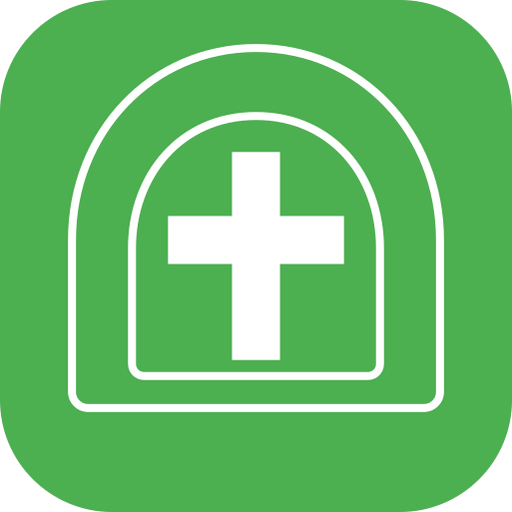
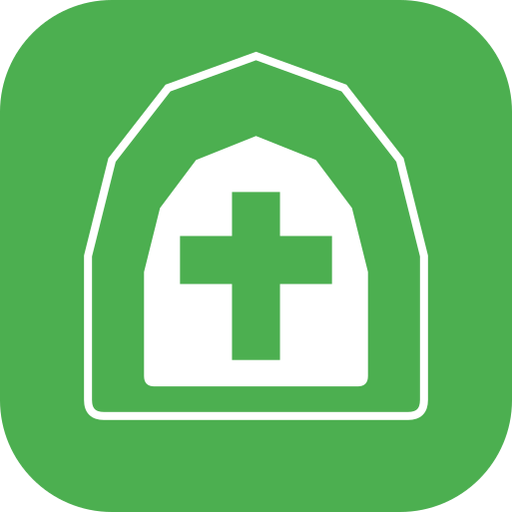
로고 아치를 각진 다각형 실루엣으로, 내부는 흰 문+초록 십자가 컷아웃으로 재구성
바깥 아치는 매끈한 곡선 대신 다각형(7각형 느낌) 윤곽선으로,
안쪽은 흰색으로 꽉 채운 문 모양 위에 배경과 같은 초록색
십자가를 겹쳐 파여있는 것처럼 보이도록 조정.

Changed region(s): [[0.125, 0.0625, 0.875, 0.8438]]

diff --git a/app/components/Header.tsx b/app/components/Header.tsx
@@ -25,21 +25,18 @@ export default function Header() {
       <div style={s.logo}>
         <svg viewBox="0 0 64 64" width={40} height={40}>
           <path
-            d="M32 6C19 6 9 16.5 9 30v19a2 2 0 0 0 2 2h42a2 2 0 0 0 2-2V30C55 16.5 45 6 32 6Z"
+            d="M11 50V32L14 20L21 11L32 7L43 11L50 20L53 32V50Q53 52 51 52H13Q11 52 11 50Z"
             fill="none"
             stroke="white"
-            strokeWidth="4"
+            strokeWidth="3.6"
             strokeLinejoin="round"
           />
           <path
-            d="M32 14.5C22.5 14.5 16.5 22 16.5 31v14.5A1.5 1.5 0 0 0 18 47h28a1.5 1.5 0 0 0 1.5-1.5V31C47.5 22 41.5 14.5 32 14.5Z"
-            fill="none"
-            stroke="white"
-            strokeWidth="3"
-            strokeLinejoin="round"
+            d="M18 47V34L20 26L24.5 20L32 17L39.5 20L44 26L46 34V47Q46 48.3 44.7 48.3H19.3Q18 48.3 18 47Z"
+            fill="white"
           />
-          <rect x="29" y="19" width="6" height="26" fill="white" />
-          <rect x="21" y="27" width="22" height="6" fill="white" />
+          <rect x="29" y="24" width="6" height="21" fill="#4CAF50" />
+          <rect x="22.5" y="29.5" width="19" height="6" fill="#4CAF50" />
         </svg>
       </div>
       <div style={{ fontSize: 12, fontWeight: 700, color: colors.primary, marginBottom: 2 }}>